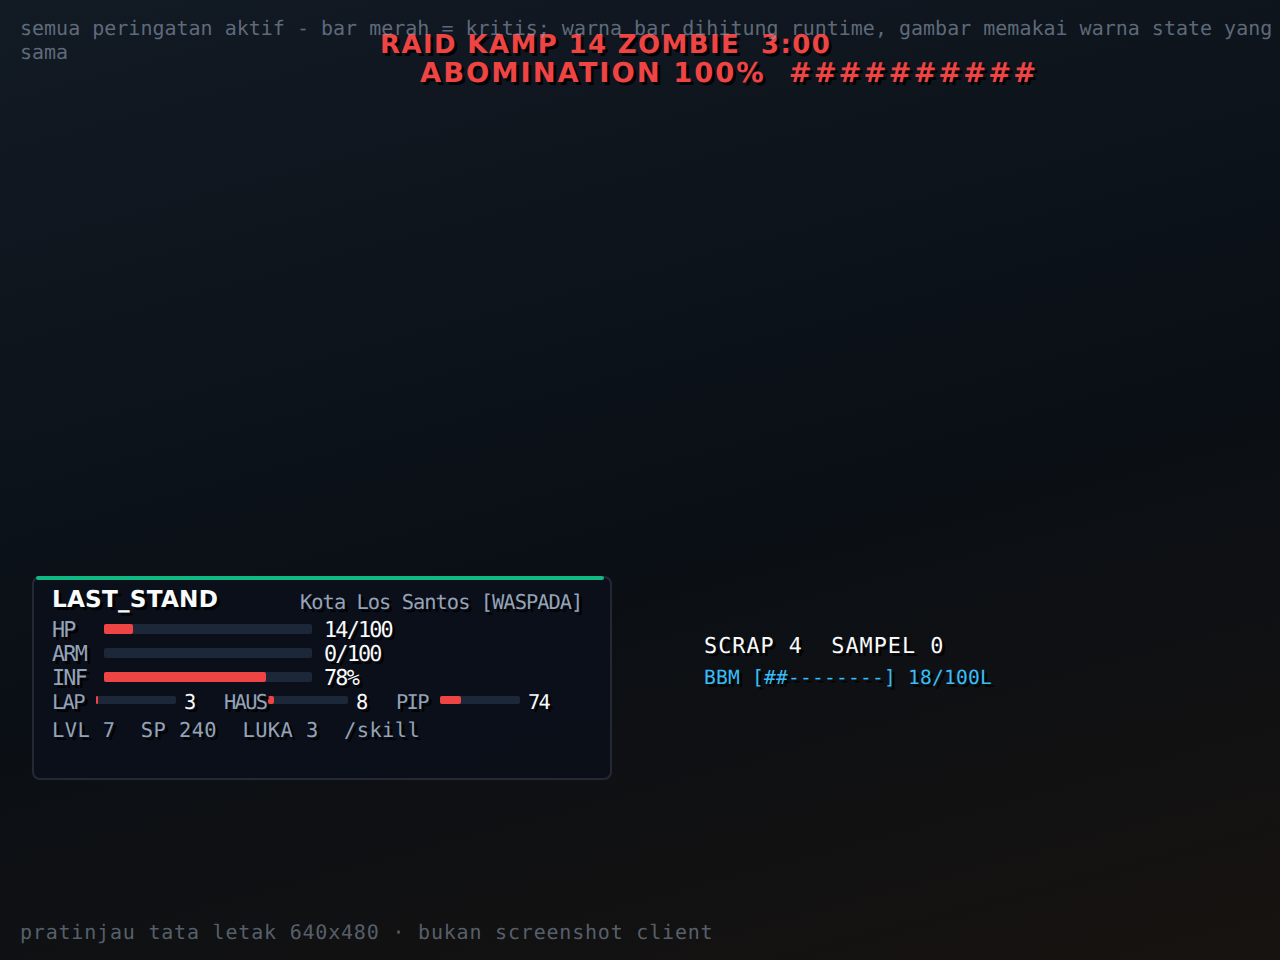
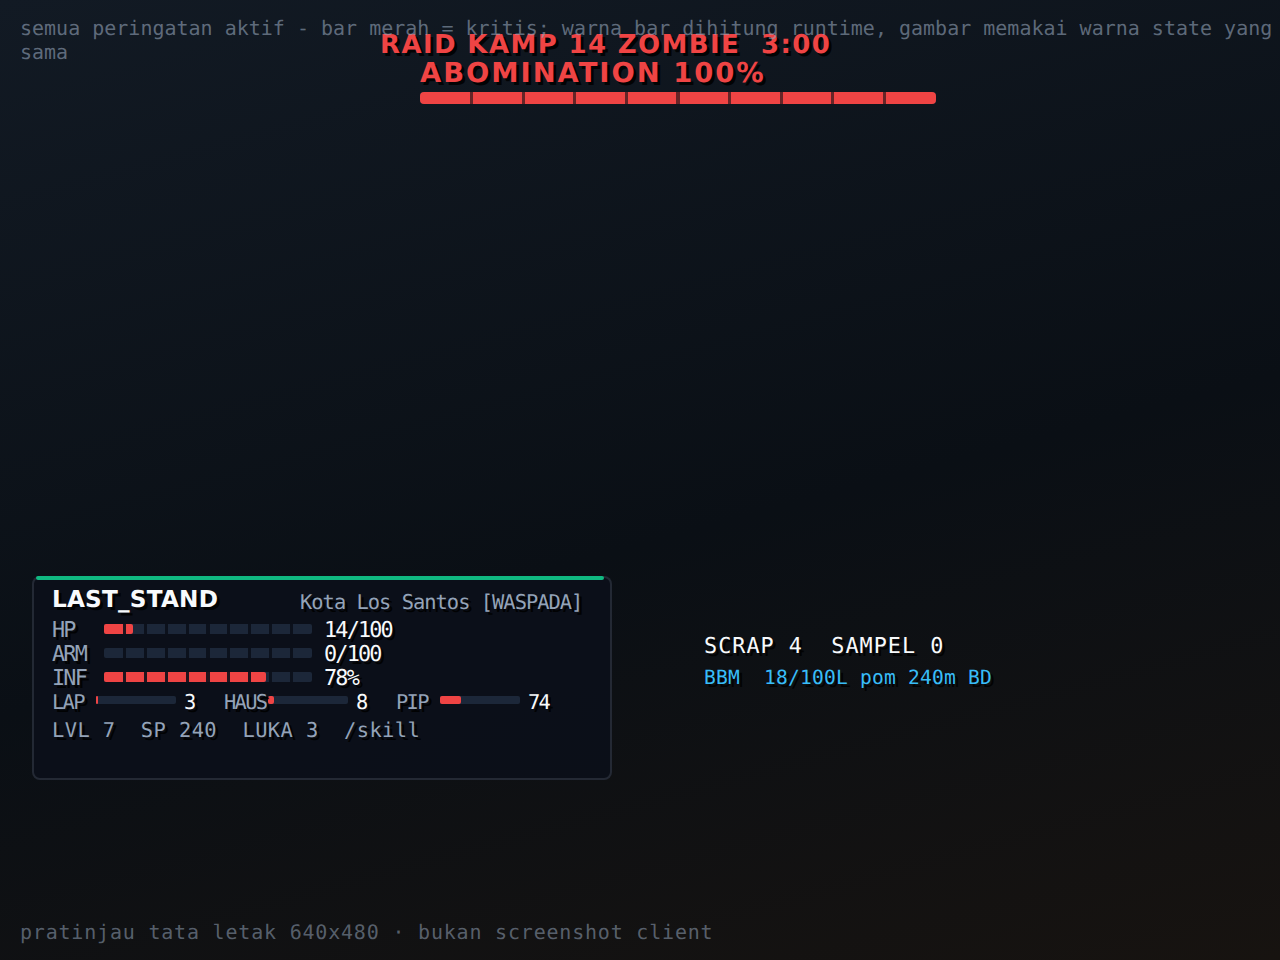
feat(ui): HUD v3 - gauge ASCII diganti bar bersegmen, bar kondisional hilang utuh
- BBM/GENSET: bar bersegmen 118 px di dalam kotak kanan (teks kiri, bar kanan)
- Boss: bar merah 258 px di bawah nama ABOMINATION (10 segmen)
- Bar HP/ARM/INF ikut bersegmen (10 celah strip latar, dibuat setelah fill)
- Bar kondisional (BBM <=25%, genset mati, boss mati) hilang UTUH via
  HudVehBarShown/HUD_ShowBar-HUD_HideBar; track kosong tidak mengambang
- Teks terburuk baru: HudVehicle 26 char, HudBoss 16 char (gate 20/20)
- galeri: renderer bar bersegmen + guard literal geometri v3
- build 0 warning 0 error; selftest 53/53 PASS s1+s2 (boot 08:17)

Changed region(s): [[0.3125, 0.0625, 0.8125, 0.125], [0.5938, 0.6875, 0.7812, 0.7188]]

diff --git a/tools/tdui/gallery.py b/tools/tdui/gallery.py
@@ -231,6 +231,11 @@ HUD_BARS = [
     (220.0, 348.0, 40.0, 4.0),
 ]
 HUD_PROMPT = (210.0, 414.0, 220.0, 18.0)
+# Bar bersegmen: (x, y, w, h, segmen) — celah digambar sebagai strip latar.
+HUD_SEG_GAP_W = 1.6
+HUD_SEG_BARS = {0: 10, 1: 10, 2: 10, 6: 10, 7: 10}  # index bar -> jumlah segmen
+HUD_VEH_BAR = (500.0, 338.0, 118.0, 5.0)
+HUD_BOSS_BAR = (210.0, 46.0, 258.0, 6.0)
 
 HUD_SCENARIOS: dict[str, dict] = {
     # name: {"text": {...}, "bars": [(index, ratio, warna)], "hide": [...]}
@@ -268,8 +273,9 @@ HUD_SCENARIOS: dict[str, dict] = {
             "HudPipVal": "30",
             "HudProgress": "LVL 7  SP 240  LUKA 0  /skill",
             "HudLoadout": "SCRAP 34  SAMPEL 12",
-            "HudVehicle": "BBM [######----] 62/100L",
+            "HudVehicle": "BBM  62/100L 240km",
         },
+        "veh_bar": (0.62, "UI_ACCENT_PRIMARY"),
         "bars": [
             (0, 0.92, "UI_ACCENT_PRIMARY"), (1, 0.60, "UI_ACCENT_INFO"),
             (2, 0.08, "UI_ACCENT_PRIMARY"), (3, 0.55, "UI_ACCENT_PRIMARY"),
@@ -290,8 +296,9 @@ HUD_SCENARIOS: dict[str, dict] = {
             "HudPipVal": "18",
             "HudProgress": "LVL 7  SP 240  LUKA 1  /skill",
             "HudLoadout": "SCRAP 51  SAMPEL 12",
-            "HudVehicle": "GENSET [##########] 12/20L",
+            "HudVehicle": "GENSET  12/20L",
         },
+        "veh_bar": (0.60, "UI_ACCENT_PRIMARY"),
         "bars": [
             (0, 0.74, "UI_ACCENT_PRIMARY"), (1, 0.20, "UI_ACCENT_INFO"),
             (2, 0.21, "UI_ACCENT_PRIMARY"), (3, 0.40, "UI_ACCENT_WARN"),
@@ -312,10 +319,12 @@ HUD_SCENARIOS: dict[str, dict] = {
             "HudPipVal": "74",
             "HudProgress": "LVL 7  SP 240  LUKA 3  /skill",
             "HudLoadout": "SCRAP 4  SAMPEL 0",
-            "HudVehicle": "BBM [##--------] 18/100L",
-            "HudBoss": "ABOMINATION 100%  ##########",
+            "HudVehicle": "BBM  18/100L pom 240m BD",
+            "HudBoss": "ABOMINATION 100%",
             "HudRaid": "RAID KAMP 14 ZOMBIE  3:00",
         },
+        "veh_bar": (0.0, "UI_ACCENT_DANGER"),  # <=25%: bar disembunyikan, teks pom full width
+        "boss_bar": 1.0,
         "bars": [
             (0, 0.14, "UI_ACCENT_DANGER"), (1, 0.0, "UI_ACCENT_INFO"),
             (2, 0.78, "UI_ACCENT_DANGER"), (3, 0.03, "UI_ACCENT_DANGER"),
@@ -345,7 +354,7 @@ def render_hud(scene: dict, draws: list[dict], colors: dict[str, str],
         f'<div style="position:absolute;left:{ax}px;top:{ay}px;width:{aw}px;height:{ah}px;'
         f'background:{accent};border-radius:1px;"></div>')
 
-    # bar: track (UI_BG_ELEVATED) + fill dinamis
+    # bar: track (UI_BG_ELEVATED) + fill dinamis + celah segmen
     for index, (bx, by, bw, bh) in enumerate(HUD_BARS):
         parts.append(
             f'<div style="position:absolute;left:{bx}px;top:{by}px;width:{bw}px;height:{bh}px;'
@@ -356,6 +365,49 @@ def render_hud(scene: dict, draws: list[dict], colors: dict[str, str],
         parts.append(
             f'<div style="position:absolute;left:{bx}px;top:{by}px;width:{fill_w:.1f}px;height:{bh}px;'
             f'background:{colors[color_name]};border-radius:1px;"></div>')
+        segments = HUD_SEG_BARS.get(index, 0)
+        for cut in range(1, segments):
+            gap_x = bx + cut * (bw / segments) - HUD_SEG_GAP_W * 0.5
+            parts.append(
+                f'<div style="position:absolute;left:{gap_x:.1f}px;top:{by}px;'
+                f'width:{HUD_SEG_GAP_W}px;height:{bh}px;background:{colors["UI_BG_GLASS_DARK"]};"></div>')
+
+    # bar BBM/GENSET di dalam kotak kanan: track+fill+celah hanya saat rasio > 0
+    # (sama dengan Pawn: bar hilang utuh saat BBM <= 25% / genset mati)
+    vx, vy, vw, vh = HUD_VEH_BAR
+    veh_ratio, veh_color = scene.get("veh_bar", (0.0, "UI_ACCENT_PRIMARY"))
+    if "HudVehicle" not in hidden and veh_ratio > 0.0:
+        parts.append(
+            f'<div style="position:absolute;left:{vx}px;top:{vy}px;width:{vw}px;height:{vh}px;'
+            f'background:{colors["UI_BG_ELEVATED"]};border-radius:1px;"></div>')
+        fill_w = max(0.0, min(1.0, veh_ratio)) * vw
+        if fill_w > 0:
+            parts.append(
+                f'<div style="position:absolute;left:{vx}px;top:{vy}px;width:{fill_w:.1f}px;height:{vh}px;'
+                f'background:{colors[veh_color]};border-radius:1px;"></div>')
+        for cut in range(1, 10):
+            gap_x = vx + cut * (vw / 10) - HUD_SEG_GAP_W * 0.5
+            parts.append(
+                f'<div style="position:absolute;left:{gap_x:.1f}px;top:{vy}px;'
+                f'width:{HUD_SEG_GAP_W}px;height:{vh}px;background:rgba(11,15,20,0.71);"></div>')
+
+    # bar boss di bawah teks (tampil bila HudBoss tidak disembunyikan)
+    ox, oy, ow, oh = HUD_BOSS_BAR
+    if "HudBoss" not in hidden:
+        parts.append(
+            f'<div style="position:absolute;left:{ox}px;top:{oy}px;width:{ow}px;height:{oh}px;'
+            f'background:{colors["UI_BG_ELEVATED"]};border-radius:2px;"></div>')
+        boss_ratio = scene.get("boss_bar", 1.0)
+        fill_w = max(0.0, min(1.0, boss_ratio)) * ow
+        if fill_w > 0:
+            parts.append(
+                f'<div style="position:absolute;left:{ox}px;top:{oy}px;width:{fill_w:.1f}px;height:{oh}px;'
+                f'background:{colors["UI_ACCENT_DANGER"]};border-radius:2px;"></div>')
+        for cut in range(1, 10):
+            gap_x = ox + cut * (ow / 10) - HUD_SEG_GAP_W * 0.5
+            parts.append(
+                f'<div style="position:absolute;left:{gap_x:.1f}px;top:{oy}px;'
+                f'width:{HUD_SEG_GAP_W}px;height:{oh}px;background:rgba(11,15,20,0.6);"></div>')
 
     # pil prompt interaksi
     if "HudPromptText" not in hidden:
@@ -587,11 +639,15 @@ def main() -> int:
     # ini berubah, galeri (dan pemahaman kita tentang layar) basi.
     require_literal(hud_text, "HUD_CreateCard(playerid, 16.0, 288.0, 288.0, 100.0, 2.0)", "kartu HUD")
     require_literal(hud_text, "284.0, 2.0", "aksen kartu HUD")
-    require_literal(hud_text, "gHudBarW[HUD_BAR_COUNT] = {104.0, 104.0, 104.0, 40.0, 40.0, 40.0}", "lebar bar HUD")
+    require_literal(hud_text, "gHudBarW[HUD_BAR_COUNT] = {104.0, 104.0, 104.0, 40.0, 40.0, 40.0, 118.0, 258.0}", "lebar bar HUD v3")
     require_literal(hud_text, "HUD_CreateBar(playerid, HUD_BAR_HP, 52.0, 312.0", "bar HP")
     require_literal(hud_text, "HUD_CreateBar(playerid, HUD_BAR_PIP, 220.0, 348.0", "bar PIP")
     require_literal(hud_text, "CreatePlayerTextDraw(playerid, 210.0, 414.0", "pil prompt")
     require_literal(hud_text, "PlayerTextDrawTextSize(playerid, HudPromptBg[playerid], 220.0, 18.0)", "ukuran pil prompt")
+    require_literal(hud_text, "gHudBarW[HUD_BAR_COUNT] = {104.0, 104.0, 104.0, 40.0, 40.0, 40.0, 118.0, 258.0}", "lebar bar v3")
+    require_literal(hud_text, "HUD_CreateBar(playerid, HUD_BAR_VEH, 500.0, 338.0", "bar BBM")
+    require_literal(hud_text, "HUD_CreateBar(playerid, HUD_BAR_BOSS, 210.0, 46.0", "bar boss")
+    require_literal(hud_text, "#define HUD_SEG_GAP_W    1.6", "lebar celah segmen")
 
     items = parse_items(items_text)
     structures = parse_structures(structures_text, items)

diff --git a/tools/hud_preview/generate.py b/tools/hud_preview/generate.py
@@ -45,8 +45,8 @@ WORST_TEXT = {
     "HudPipVal": "100",
     "HudProgress": "LVL 99  SP 999  LUKA 9  /skill",
     "HudLoadout": "SCRAP 9999  SAMPEL 999",
-    "HudVehicle": "BBM [##########] 100/100L pom 8000m TG",
-    "HudBoss": "ABOMINATION 100%  ##########",
+    "HudVehicle": "BBM  100/100L pom 8000m TG",
+    "HudBoss": "ABOMINATION 100%",
     "HudRaid": "RAID KAMP 14 ZOMBIE  3:00",
     "HudPromptText": "Y  Ekstraksi sampel air",
 }

diff --git a/MEMORY.md b/MEMORY.md
@@ -425,3 +425,5 @@ Format tiap baris:
 - **[26-11-23 · UI/gate]**: tata letak panel TextDraw tidak bisa diverifikasi dengan membaca kode, dan screenshot in-game tidak tersedia saat pengembangan → **Root Cause**: kesalahan 1-2 px pada hitbox hanya terlihat saat pemain menekan tombol yang salah → **Invariant Rule**: setiap panel baru wajib punya tiga bukti: (1) selftest angka (batas layar, jarak ke HUD lain, lebar teks baris terburuk), (2) selftest geometri tombol (tidak bertumpuk, tidak keluar kartu), (3) render HTML dari `tools/hud_preview/` yang GAGAL bila koordinat di `.inc` berubah tanpa memperbarui alat. Pratinjau yang tidak bisa gagal adalah hiasan, bukan gate.
 
 - **[26-11-23 · UI/gate-sprite]**: HUD v2 menambah kartu + bar dari sprite `LD_SPAC:white` dan TD berbasis array (`HudCard[i]`, `HudBarBg[i]`), lalu gate `generate.py` sempat akan salah hitung karena regex `Hud\w+\[playerid\] =` hanya menangkap TD scalar → **Root Cause**: TD array dibuat dengan `HudCard[playerid][index] = ...` (tak cocok regex) dan sprite tidak punya string terburuk, jadi mencocokkan "jumlah draw = jumlah baris tabel" akan gagal/dustakan bila sprite ikut dihitung → **Invariant Rule**: gate panjang `generate.py` hanya berlaku pada TD **teks scalar**; TD yang dibuat via `CreatePlayerTextDraw(..., "LD_*")` (sprite) dan TD berbasis array WAJIB di-skip (`initial.startswith("LD_")`), dan geometri sprite divalidasi lewat `require_literal` di `gallery.py`, bukan lewat tabel fit. Lebar bar dinamis = `PlayerTextDrawTextSize` pada sprite dengan width 0 = tersembunyi; cache width/color per bar agar tick 500 ms tidak mengirim paket sia-sia.
+
+- **[26-11-23 · UI/bar-kondisional]**: HUD v3 mengganti gauge ASCII (`[####----]`, `##########`) dengan bar bersegmen, tapi pada iterasi pertama bar BBM/boss hanya menyembunyikan FILL — track gelap kosong tetap terlihat mengambang di layar saat BBM ≤25% / genset mati → **Root Cause**: `HUD_SetBar(..., 0.0)` hanya menyetel lebar fill ke 0; track dan celah segmen dibuat statis dan tidak punya aturan show/hide sendiri → **Invariant Rule**: bar kondisional (BBM/GENSET, boss) harus tampil-hilang UTUH bersama konteksnya lewat flag eksplisit (`HudVehBarShown`, `HudBossShown`) — `HUD_ShowBar`/`HUD_HideBar` dipanggil bersama labelnya, bukan sekadar fill 0. Track tanpa label di layar = sampah visual. Celah segmen dibuat SETELAH fill (urutan pembuatan = urutan gambar) dan warnanya harus = warna latar bar agar potongan menyatu.

diff --git a/docs/tdui/README.md b/docs/tdui/README.md
@@ -17,9 +17,9 @@ Resolusi: 1280×960 (2× dari koordinat asli 640×480 SA-MP).
 | Gambar | Isi | Sumber kode |
 |---|---|---|
 | ![HUD pejalanan](01-hud-pejalanan.png) | Kartu kaca rounded: bar HP/ARM/INF berlabel + angka, micro-bar LAP/HAUS/PIP, zona di baris brand, pil prompt `Y  Stash Kamp` | `ui/hud.inc` |
-| ![HUD kendaraan](02-hud-kendaraan.png) | Baris BBM aktif untuk pengemudi **dan** penumpang; kolom kanan SCRAP/SAMPEL + BBM segaris (x=352, lebar 276) | `ui/hud.inc` |
-| ![HUD genset](03-hud-generator.png) | Saat tidak di kendaraan tapi ≤ 12 m dari genset base sendiri, baris BBM berganti jadi `GENSET [##########] 12/20L` | `ui/hud.inc` + `BaseBuild_GeneratorSlot` |
-| ![HUD kritis](04-hud-kritis.png) | Semua peringatan aktif: bar HP/INF merah, ARM kosong, kebutuhan hampir habis, boss, raid | `ui/hud.inc` |
+| ![HUD kendaraan](02-hud-kendaraan.png) | Baris BBM untuk pengemudi **dan** penumpang: teks + bar bersegmen 118 px; kolom kanan segaris (x=352, lebar 276) | `ui/hud.inc` |
+| ![HUD genset](03-hud-generator.png) | Saat tidak di kendaraan tapi ≤ 12 m dari genset base sendiri, baris BBM berganti jadi `GENSET  12/20L` + bar bersegmen | `ui/hud.inc` + `BaseBuild_GeneratorSlot` |
+| ![HUD kritis](04-hud-kritis.png) | Semua peringatan aktif: bar HP/INF merah bersegmen, ARM kosong, BBM ≤25% (bar hilang, teks pom), boss dengan bar merah 258 px | `ui/hud.inc` |
 | ![Panel bangun - pasang](05-bangun-pratinjau.png) | Panel bangun mode **PASANG**: SAMPING/MAJU/NAIK/ARAH/JARAK/LANGKAH, tombol sprite, PASANG hijau = material cukup | `world/build_edit.inc` |
 | ![Panel bangun - geser](06-bangun-geser.png) | Panel bangun mode **GESER**: tiga baris atas berubah jadi koordinat dunia X/Y/Z, PASANG kuning | `world/build_edit.inc` |
 

diff --git a/ROADMAP.md b/ROADMAP.md
@@ -448,4 +448,5 @@ Gate: 100 pemain + 190 zombie, tick p95 < 20 ms, 0 crash 60 menit, 3 cheat simul
 - [x] Perbaikan "struktur bergeser": penanda muat per **base** (`BaseBuild_IsLoaded`/`MarkLoaded`/`ForgetLoaded`) + pagar duplikat di `BaseBuild_OnRowsLoaded`; selftest `muat struktur per base` (52/52)
 - [x] HUD: nominal uang dihapus, SCRAP/SAMPEL diberi kotak latar gelap, BBM tampil untuk pengemudi **dan** penumpang, plus baris GENSET saat berdiri <= 12 m dari generator sendiri
 - [x] HUD v2 (audit UX): kartu kaca rounded + bar HP/ARM/INF berlabel + micro-bar LAP/HAUS/PIP, kolom kanan segaris (x=352 lebar 276), pil prompt interaksi `[Y] <nama>` bawah-tengah saat ≤ 1,5 m dari hotspot (sembunyi saat mode bangun), SAMPEL dobel dihapus dari baris progres; gate `gHudFitRows` 20 baris + `generate.py` skip sprite + galeri 4 skenario baru
+- [x] HUD v3 (modernisasi): gauge ASCII `[####----]`/`##########` dihapus — BBM/GENSET pakai bar bersegmen 118 px di dalam kotak, boss pakai bar merah 258 px di bawah nama; bar HP/ARM/INF ikut bersegmen (10 celah strip latar); bar kondisional hilang UTUH bersama konteksnya (BBM ≤25% / genset mati / boss mati), track kosong tidak boleh mengambang
 

diff --git a/docs/SURVIVAL.md b/docs/SURVIVAL.md
@@ -43,12 +43,13 @@ Saat dekat hotspot (≤ 1,5 m) muncul pil `[Y] <nama>` di bawah-tengah layar.
 | Van/bus | Burrito, Boxville | 80 L | 13.5 L/100 km |
 | Truk/industri | Benson, DFT-30 | 150 L | 28 L/100 km |
 
-HUD kanan bawah saat mengemudi: `BBM [####------] 34/60L 8km` dengan warna
-hijau → kuning (≤25%) → merah (≤8%). Peringatan bunyi + pesan muncul sekali per
-ambang; `/bensin` kapan saja menampilkan liter, persen, sisa km, dan jarak pom.
+HUD kanan bawah saat mengemudi: `BBM  34/60L 8km` + bar bersegmen 118 px di
+kanan kotak, warna hijau → kuning (≤25%) → merah (≤8%). Peringatan bunyi +
+pesan muncul sekali per ambang; `/bensin` kapan saja menampilkan liter, persen,
+sisa km, dan jarak pom.
 
-Begitu BBM ≤25%, angka km di baris HUD diganti arah pom, mis.
-`BBM [##--------] 12/80L pom 240m BD` (BD = barat daya). Tujuannya satu: pemain
+Begitu BBM ≤25%, bar disembunyikan dan angka km diganti arah pom, mis.
+`BBM  12/80L pom 240m BD` (BD = barat daya). Tujuannya satu: pemain
 yang kehabisan bensin tidak perlu menebak harus ke mana. Baris ini dibatasi
 ±33 karakter karena ditaruh di x=440 dari layar 640 — lebih dari itu terpotong.
 
